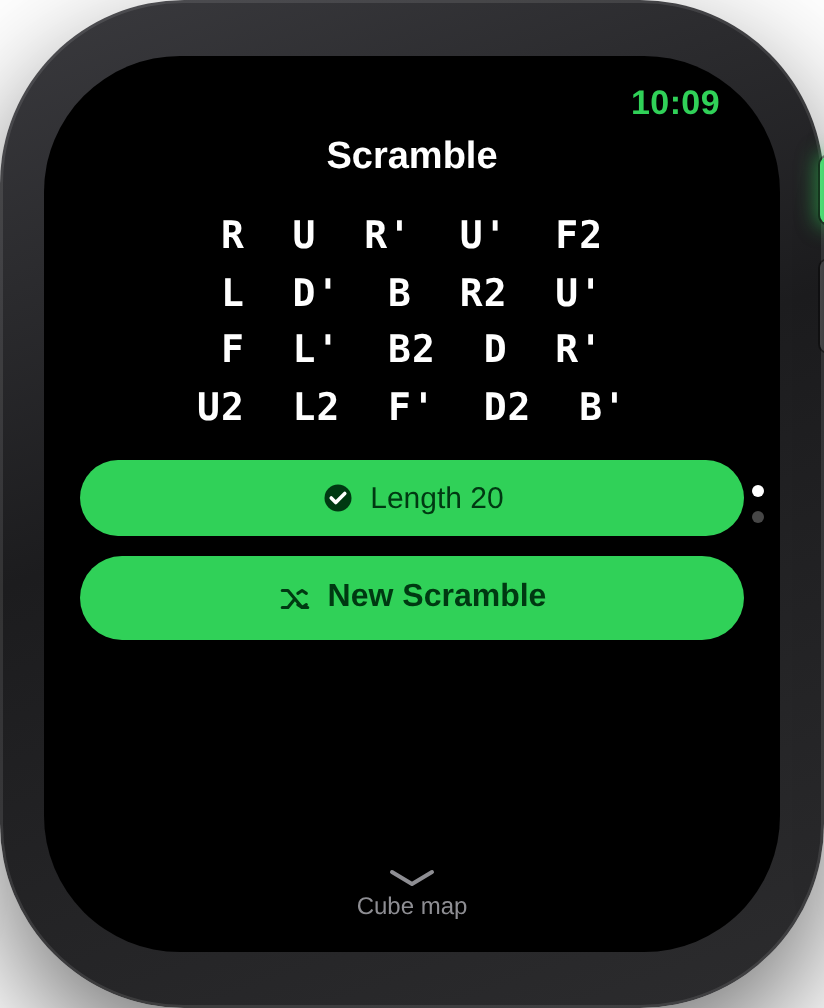
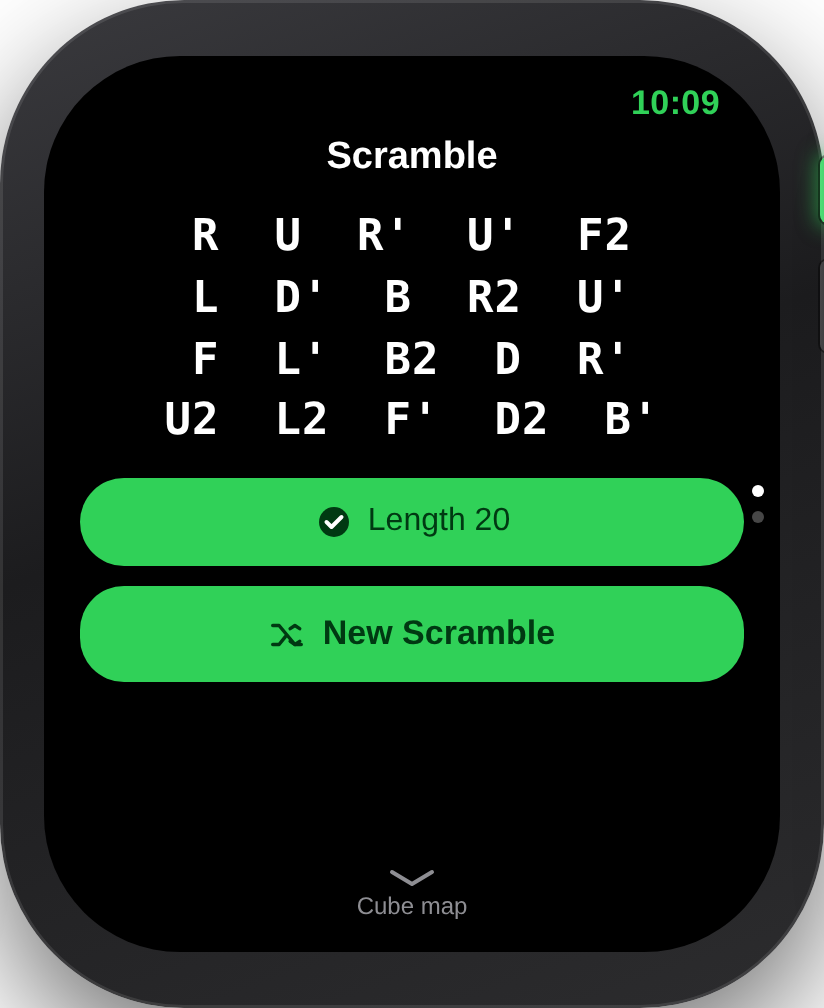
Bigger scramble text and buttons, force 5-moves-per-row
The scramble used to wrap based on whichever moves happened to land on
a row, so 20 moves could render as 4, 5, or even 3 per line. Group
moves into fixed rows of 5 with explicit newlines so the layout is
stable regardless of which moves the generator picks.

Also bumps the scramble text, length pill, and New Scramble button up
a couple of points each so they're easier to read and tap on the watch.

https://claude.ai/code/session_01UzvteeouedwRnp5Jnq4bwE

diff --git a/RubiksScramble/RubiksScramble Watch App/ContentView.swift b/RubiksScramble/RubiksScramble Watch App/ContentView.swift
@@ -19,13 +19,22 @@ private struct ScrambleScreen: View {
     @State private var crownLength = Double(ScrambleGenerator.defaultLength)
     @FocusState private var lengthFocused: Bool
 
+    /// Group moves into fixed-width rows so the wrap doesn't shift based on
+    /// which moves happen to be 1 vs 2 chars wide.
+    private var scrambleRows: String {
+        stride(from: 0, to: moves.count, by: 5)
+            .map { moves[$0..<min($0 + 5, moves.count)].joined(separator: "  ") }
+            .joined(separator: "\n")
+    }
+
     var body: some View {
         NavigationStack {
             ScrollView {
                 VStack(spacing: 12) {
-                    Text(moves.joined(separator: "  "))
-                        .font(.system(.headline, design: .monospaced))
+                    Text(scrambleRows)
+                        .font(.system(size: 19, weight: .semibold, design: .monospaced))
                         .multilineTextAlignment(.center)
+                        .minimumScaleFactor(0.7)
                         .frame(maxWidth: .infinity)
                         .padding(.vertical, 4)
 
@@ -40,7 +49,9 @@ private struct ScrambleScreen: View {
                                   : "dial.medium")
                             Text("Length \(length)")
                         }
+                        .font(.system(size: 16, weight: .medium))
                         .frame(maxWidth: .infinity)
+                        .padding(.vertical, 2)
                     }
                     .buttonStyle(.bordered)
                     .tint(lengthFocused ? Color.accentColor : Color.gray)
@@ -63,7 +74,9 @@ private struct ScrambleScreen: View {
                         lengthFocused = false
                     } label: {
                         Label("New Scramble", systemImage: "shuffle")
+                            .font(.system(size: 17, weight: .semibold))
                             .frame(maxWidth: .infinity)
+                            .padding(.vertical, 3)
                     }
                     .buttonStyle(.borderedProminent)
 

diff --git a/mockup/index.html b/mockup/index.html
@@ -118,8 +118,8 @@
   /* ---- scramble screen ---- */
   .scramble {
     font-family: "SF Mono", ui-monospace, "DejaVu Sans Mono", Menlo, monospace;
-    font-size: 19px;
-    line-height: 1.5;
+    font-size: 22px;
+    line-height: 1.4;
     letter-spacing: 0.5px;
     text-align: center;
     font-weight: 600;
@@ -137,13 +137,13 @@
     color: #fff;
     border: none;
     border-radius: 22px;
-    padding: 10px 12px;
-    font-size: 15px;
+    padding: 12px 14px;
+    font-size: 16px;
     font-weight: 500;
     margin-bottom: 10px;
     font-family: inherit;
   }
-  .lengthpill svg { width: 18px; height: 18px; flex-shrink: 0; }
+  .lengthpill svg { width: 20px; height: 20px; flex-shrink: 0; }
   .lengthpill.active {
     background: var(--accent);
     color: #003912;
@@ -162,12 +162,12 @@
     width: 100%;
     background: var(--accent);
     color: #003912;
-    font-size: 16px; font-weight: 600;
+    font-size: 17px; font-weight: 600;
     border: none; border-radius: 22px;
-    padding: 12px 0;
+    padding: 14px 0;
     margin-bottom: 8px;
   }
-  .primary svg { width: 17px; height: 17px; }
+  .primary svg { width: 19px; height: 19px; }
 
   .hint {
     margin-top: auto;
